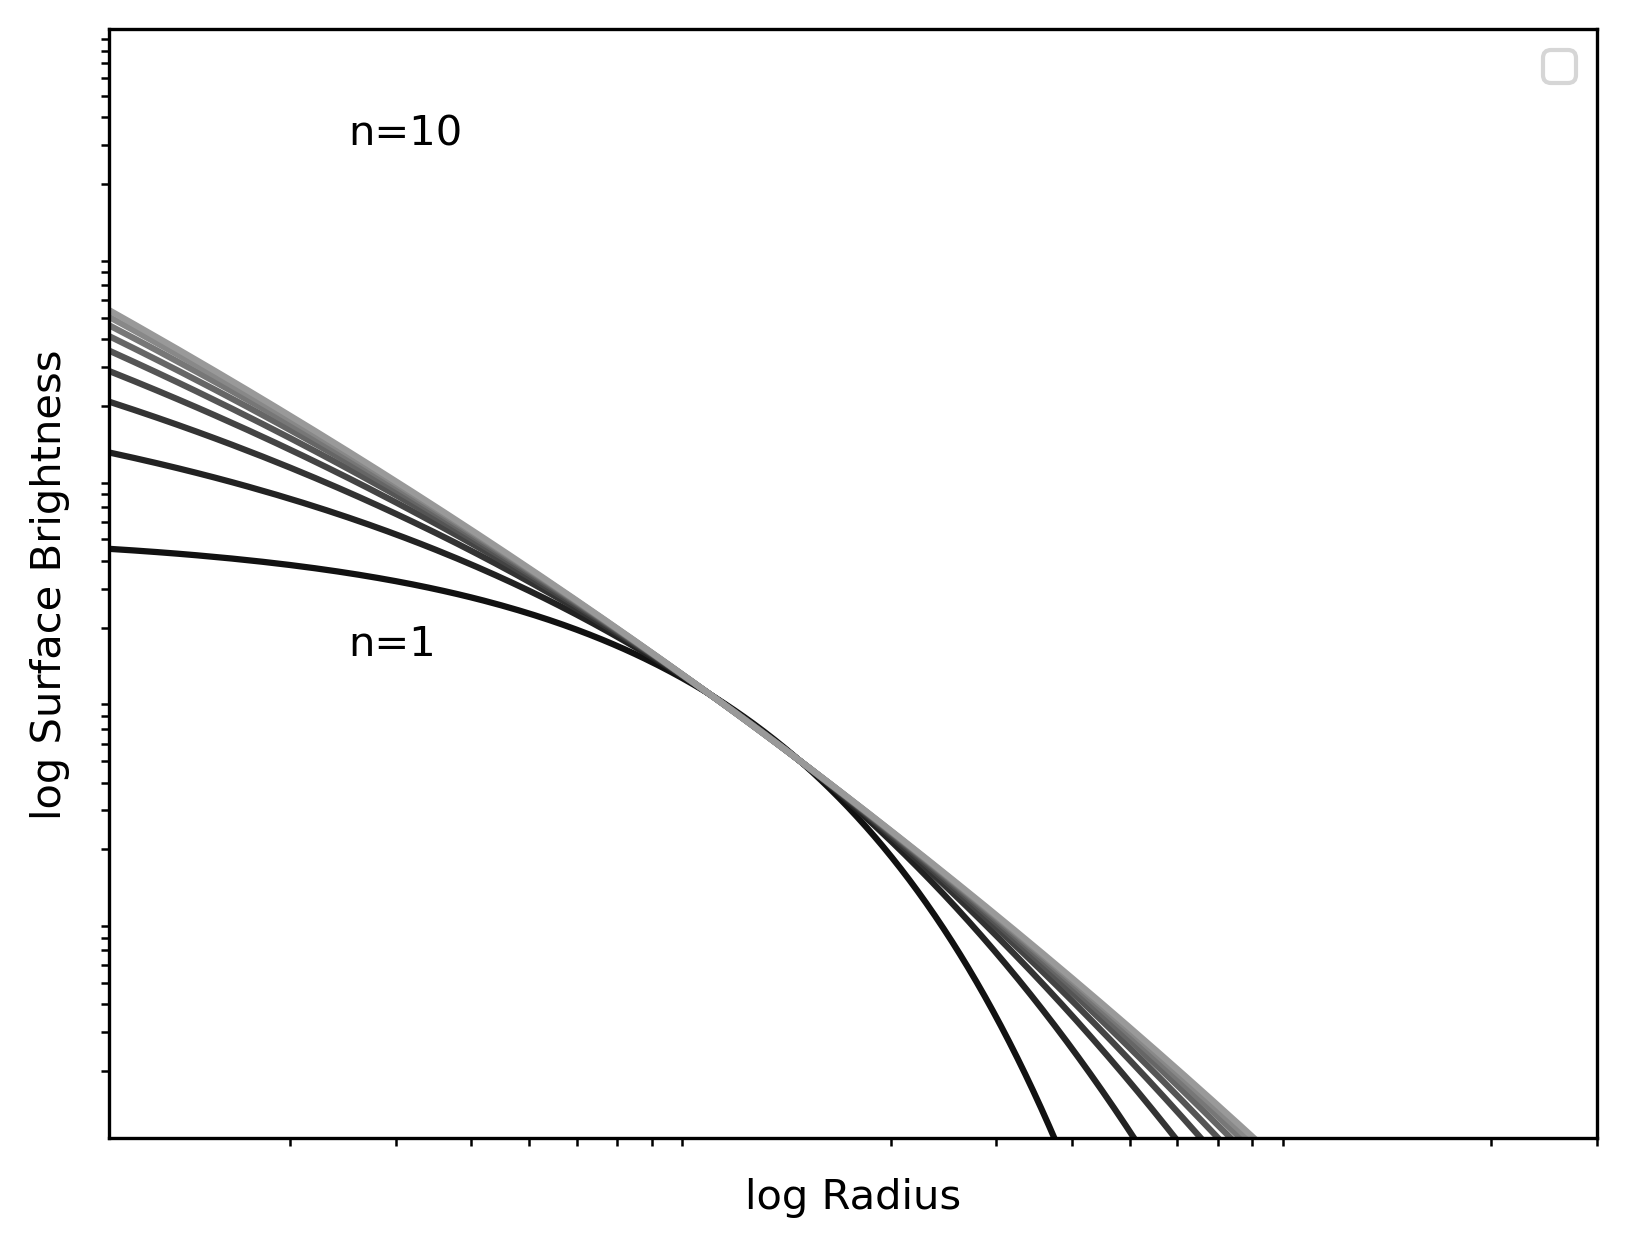
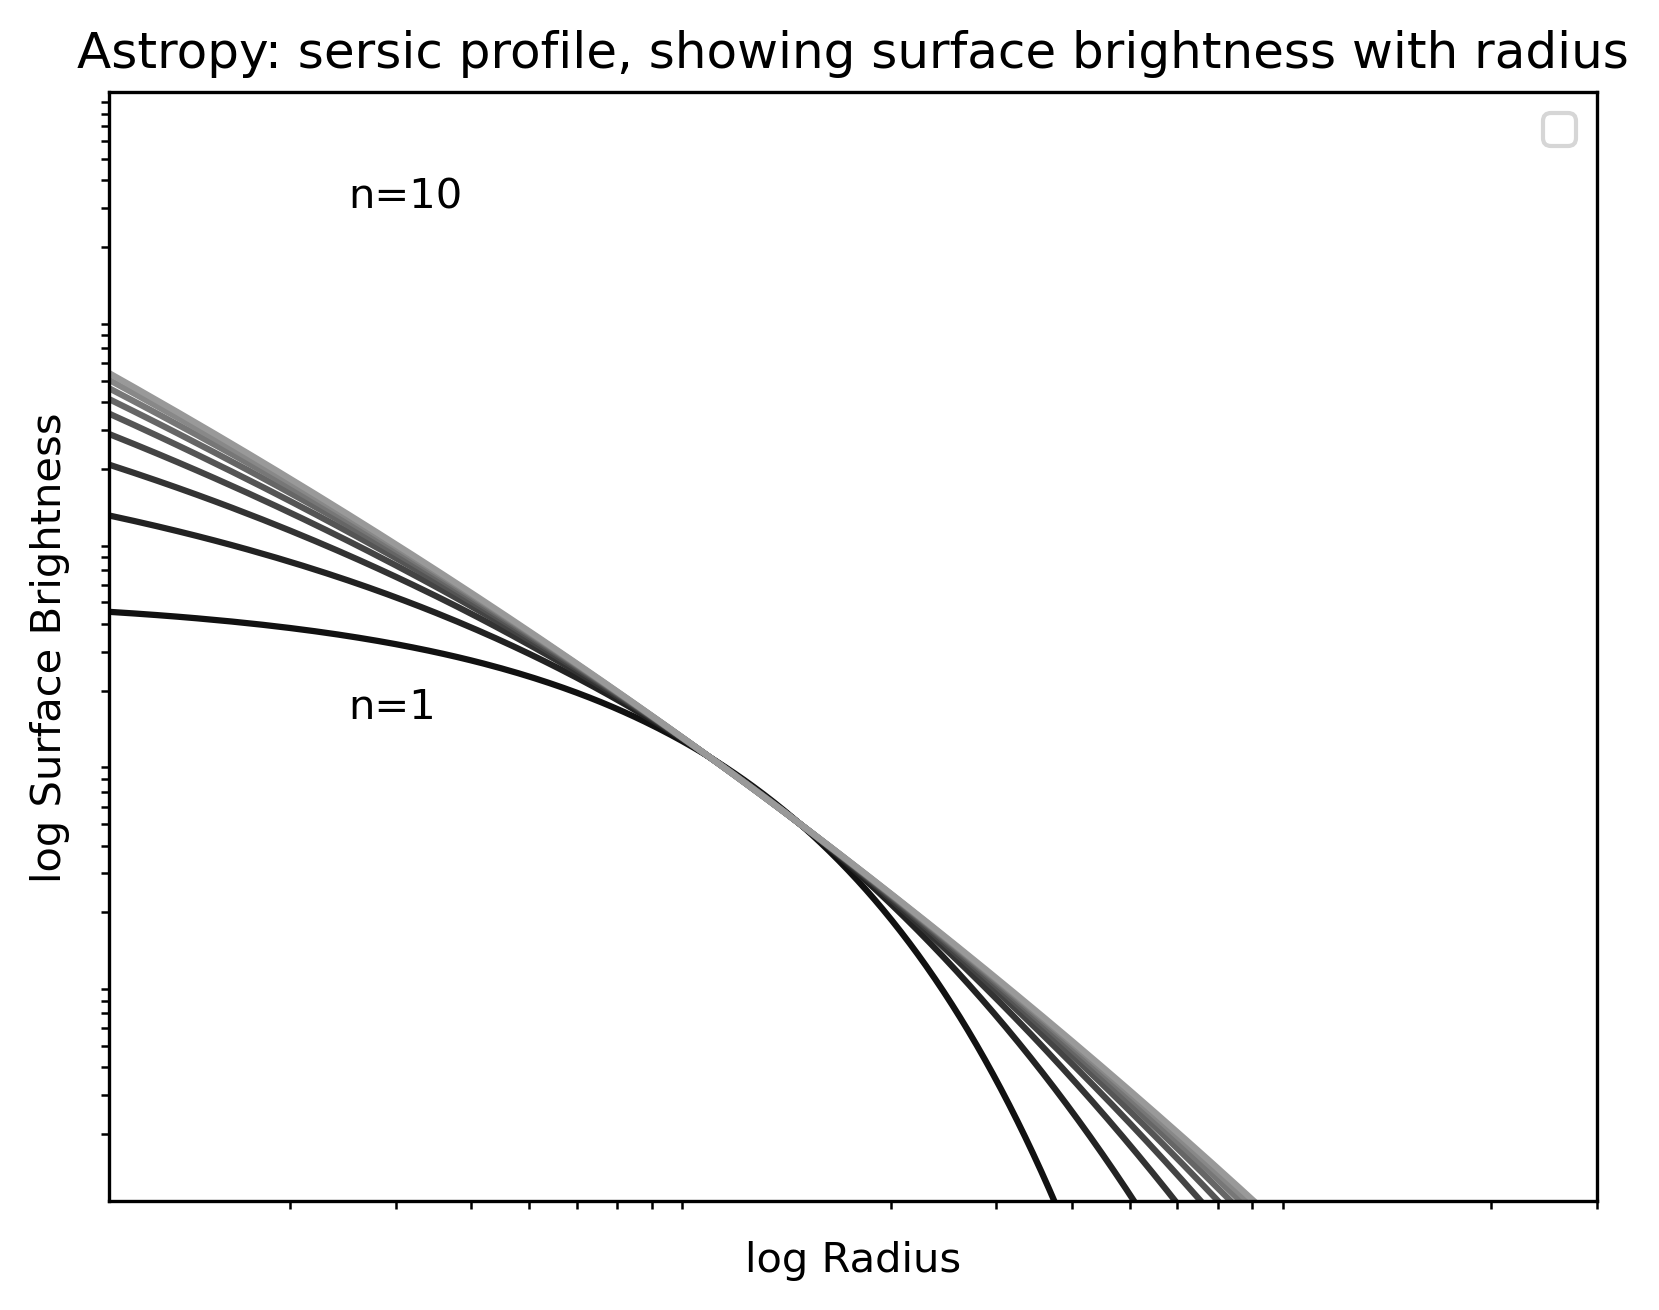
small changes, so I can pull the updated difference plot

Changed region(s): [[0.0, 0.0, 0.9834, 0.9751]]

diff --git a/sersic_plot.py b/sersic_plot.py
@@ -12,6 +12,8 @@ for n in range(1, 10):
      s1.n = n
      plt.loglog(r, s1(r), color=str(float(n) / 15))
 
+Astro_s4 = Sersic1D(1,1,4)
+
 plt.axis([1e-1, 30, 1e-2, 1e3])
 plt.xlabel('log Radius')
 plt.ylabel('log Surface Brightness')
@@ -20,16 +22,16 @@ plt.text(.25, 300, 'n=10')
 plt.xticks([])
 plt.yticks([])
 plt.show()
-
+plt.title('Astropy: sersic profile, showing surface brightness with radius')
 plt.legend(loc = 'best')
 plt.savefig('./sersic_profile_function.png', dpi=300, bbox_inches='tight')
 
 #own made function
 
 def I_R(Ie,R,Re,n):
-  bn = 1.9992*n - 0.3271
-  I = Ie*np.exp(-bn*((R/Re)**(1/n)-1))
-  return I
+    bn = 1.9992*n - 0.3271 #change to longer approx / or use b for n=4
+    I = Ie*np.exp(-bn*((R/Re)**(1/n)-1))
+    return I
 
 Ir = np.zeros((10,len(r)))
 
@@ -41,12 +43,14 @@ for i in range(1,10):
 
 plt.xlabel('log radius')
 plt.ylabel('log surface brightness')
+plt.title('sersic profile, showing surface brightness with radius')
 plt.axis([1e-1, 30, 1e-2, 1e3])
 
 #Sersic profile for different sersic profiles.
 plt.savefig('./sersic_profile.png', dpi=300, bbox_inches='tight')
 
 diff = (s1(r) - Ir[9])/s1(r)
+#diff = (Astro_s4(r) - Ir[4])/Astro_s4(r)
 mean_diff = np.mean(diff)
 plt.figure()
 plt.plot(r,diff)
@@ -120,6 +124,9 @@ Re_A = 0.69 #Kpsc0.69
 Ie_A = 26.11
 n_A = 1.80
 
+Ir_n18 = I_R(Ie_A ,r_A ,R_A ,n_A)
+Ir_n5 = I_R(Ie_A ,r_A ,R_A ,5)
+
 r_A = np.arange(0,9,0.01) #in Kpc
 plt.figure()
 plt.plot(r_A,I_R(Ie_A ,r_A ,R_A ,n_A), label = 'Sersic index = 1.8')
@@ -156,7 +163,7 @@ plt.subplot(325)
 plt.plot(M31_fr,np.abs(M31_ft), '.-')
 plt.xlabel('freq (Hz)')
 plt.title('spectrum, abs');
-plt.savefig('./M31 sersic fourier transform.png', dpi=300, bbox_inches='tight')
+plt.savefig('./M31_sersic_fourier_transform.png', dpi=300, bbox_inches='tight')
 
 #Plot a fourier transform of a galaxy twise the size of M31_fr
 M31_ft_2 = np.fft.fftshift(np.fft.fft(Ir_M31_2))
@@ -172,4 +179,34 @@ plt.subplot(325)
 plt.plot(M31_fr,np.abs(M31_ft_2), '.-')
 plt.xlabel('freq (Hz)')
 plt.title('spectrum, abs');
-plt.savefig('./M31x2 sersic fourier transform.png', dpi=300, bbox_inches='tight')
+plt.savefig('./M31x2_sersic_fourier_transform.png', dpi=300, bbox_inches='tight')
+
+#graph for sersic profile of M31 n=1.8
+M31_ft_3 = np.fft.fftshift(np.fft.fft(Ir_n18))
+
+plt.figure(figsize=(20,12))
+plt.subplot(321)
+plt.plot(r_A,Ir_n18,'.-')
+plt.xlabel('time (secs)')
+plt.title('Sersic profile for a galaxy M31 with n = 1.8')
+
+plt.subplot(325)
+plt.plot(M31_fr,np.abs(M31_ft_3), '.-')
+plt.xlabel('freq (Hz)')
+plt.title('spectrum, abs');
+plt.savefig('./M31n18_sersic_fourier_transform.png', dpi=300, bbox_inches='tight')
+
+#graph for sersic profile of M31 n=5
+M31_ft_4 = np.fft.fftshift(np.fft.fft(Ir_n5))
+
+plt.figure(figsize=(20,12))
+plt.subplot(321)
+plt.plot(r_A,Ir_n5,'.-')
+plt.xlabel('time (secs)')
+plt.title('Sersic profile for a galaxy M31 with n = 1.8')
+
+plt.subplot(325)
+plt.plot(M31_fr,np.abs(M31_ft_4), '.-')
+plt.xlabel('freq (Hz)')
+plt.title('spectrum, abs');
+plt.savefig('./M31n5_sersic_fourier_transform.png', dpi=300, bbox_inches='tight')
